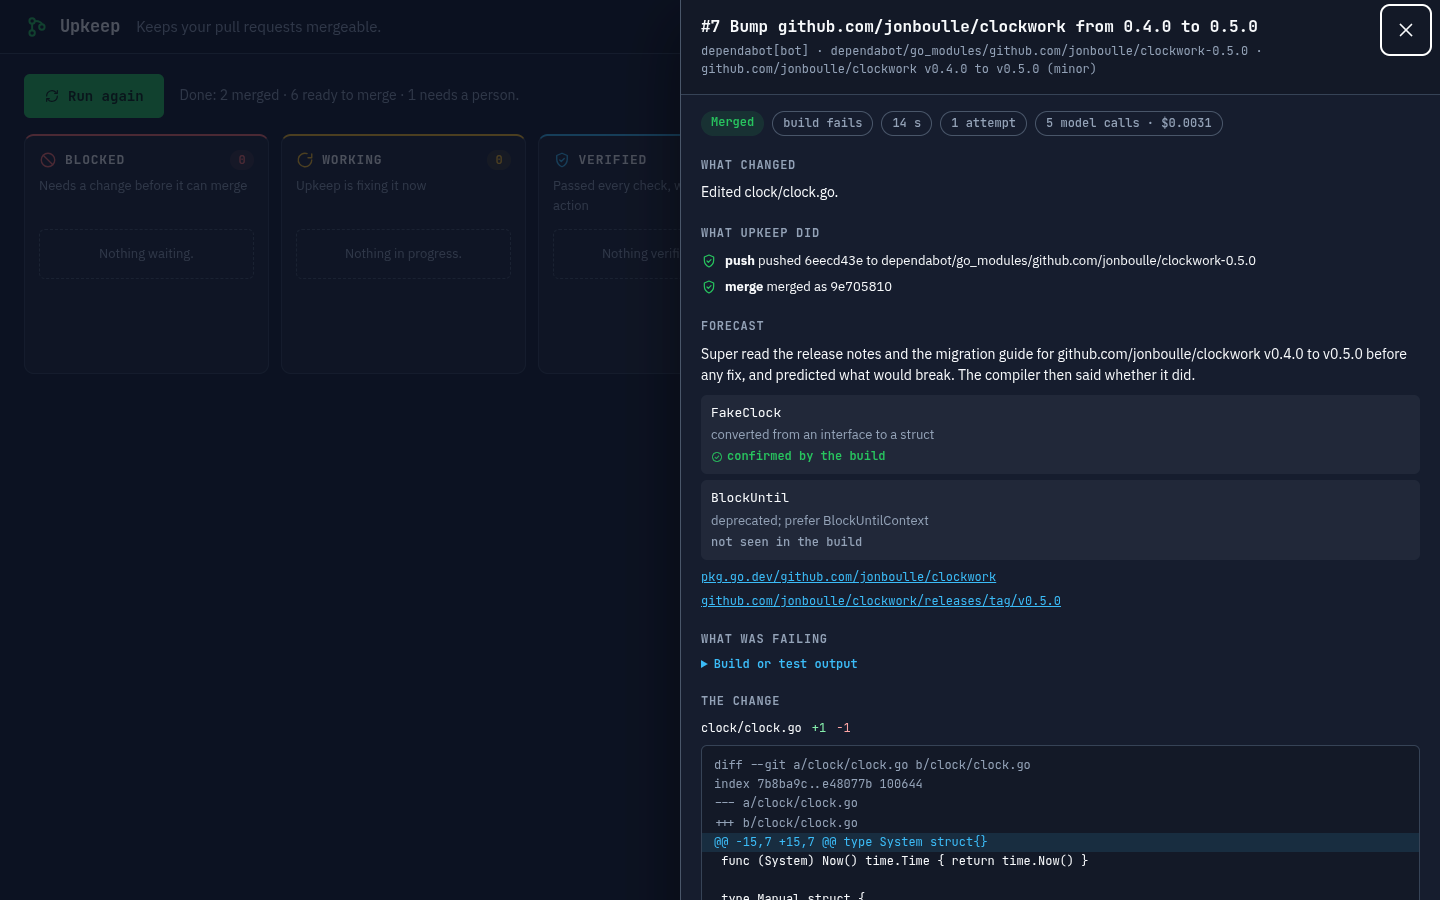
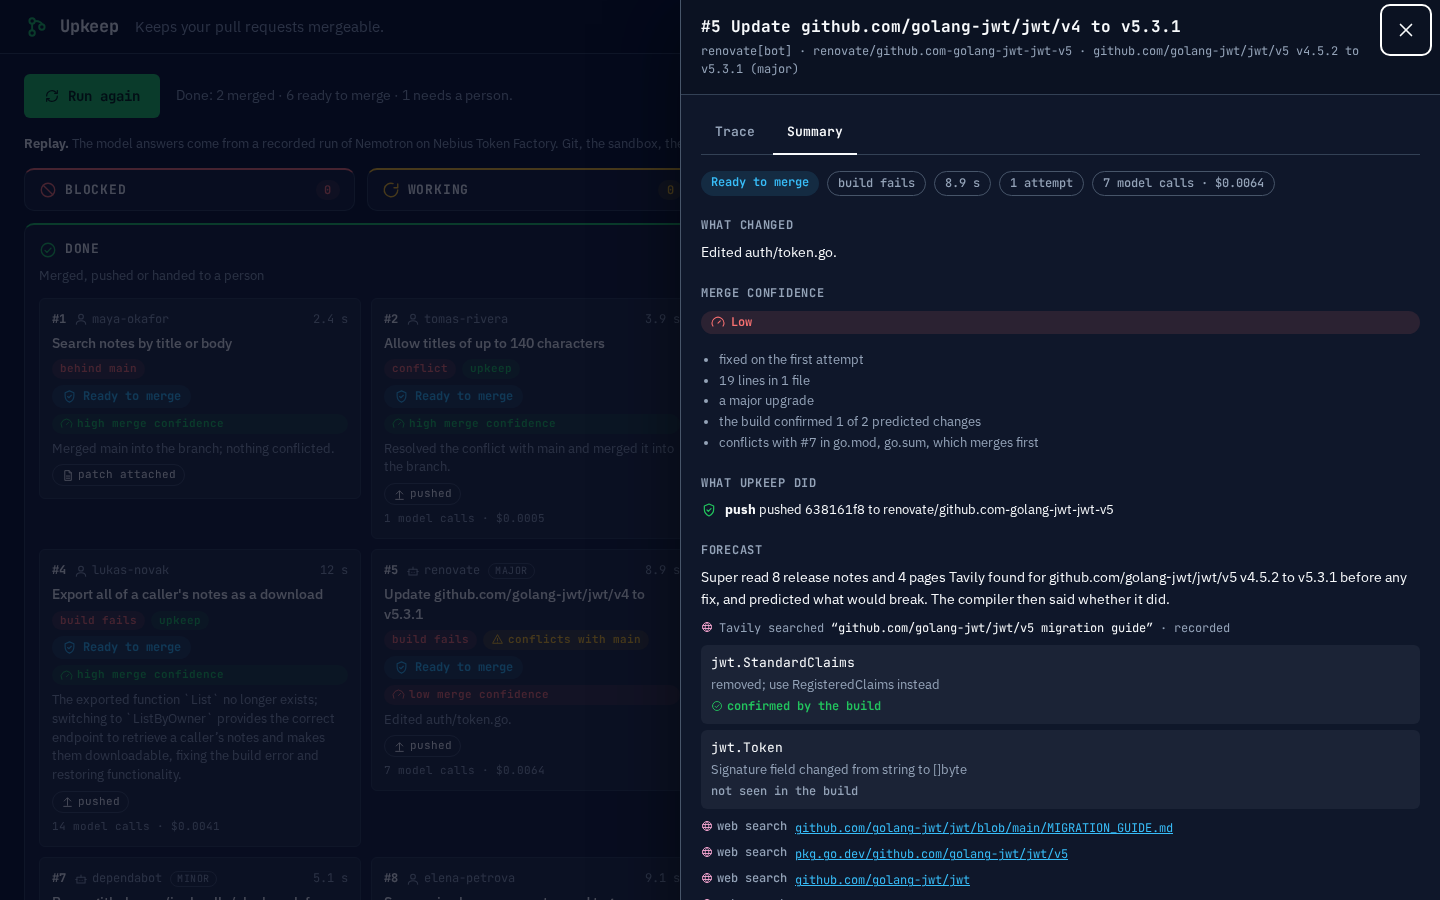
docs: explain the use of Token Factory, Nemotron and Tavily
The README now covers the merge plan, merge confidence and learned fixes, shows the live trace, the summary, the merge plan and a second run with new screenshots, and has sections on how Upkeep uses Nebius Token Factory and NVIDIA Nemotron and where Tavily is called.

diff --git a/README.md b/README.md
@@ -2,24 +2,43 @@
 
 [![ci](https://github.com/aalvaropc/upkeep/actions/workflows/ci.yml/badge.svg)](https://github.com/aalvaropc/upkeep/actions/workflows/ci.yml)
 
-Upkeep keeps GitHub pull requests mergeable. It finds what blocks each open pull request, fixes what a bounded policy allows, proves every fix with the compiler and the tests, and hands the rest back with a diagnosis and a receipt that says what each model did and cost.
+Upkeep keeps GitHub pull requests mergeable. It looks at the whole queue of open pull requests, plans the order they can merge in, fixes what a bounded policy allows, proves every fix with the compiler and the tests, remembers the fixes that passed, and hands the rest back with a diagnosis and a receipt that says what each model did and cost.
 
-It runs on NVIDIA Nemotron models (Ultra, Super and Nano) served by Nebius Token Factory. It is written in Go and ships as one binary with its dashboard built in.
+It runs on NVIDIA Nemotron models (Ultra, Super and Nano) served by Nebius Token Factory, and reads migration guides found with Tavily. It is written in Go and ships as one binary with its dashboard built in.
 
-![The dashboard after a run: nine pull requests, each with its outcome, what Upkeep did and what it cost; the models rail on the right](docs/images/dashboard-done.png)
+![The dashboard after a run: nine pull requests with their outcome, merge confidence and cost; the models and the web search on the right](docs/images/dashboard-done.png)
 
 ## What it does
 
 A repository collects pull requests that need a small change before anyone can merge them: the branch is behind, a conflict touches one line, a rename on `main` broke the build, a Dependabot bump no longer compiles, `gofmt` complains, a flaky test fails. Upkeep works through them:
 
-1. **Detect.** It merges the base branch into a scratch copy and runs the build, vet and tests in a container without network access. The first thing that fails is the blocker: behind, a small or a large conflict, build, test, formatting or a flaky test.
-2. **Forecast** (dependency upgrades only). It reads the release notes and the migration guide, asks Super what will break in the identifiers this project uses, and later marks each prediction confirmed or not seen by the build.
-3. **Fix.** Merges and formatting are mechanical. Small conflicts go to Ultra in one call. Broken builds and tests go to Super, which edits files through four tools (`read_file`, `apply_edit`, `go_doc`, `run_checks`) for up to three attempts, each starting clean.
-4. **Verify.** Outside the model, a checklist decides: build, vet and tests pass; at most 5 files and 80 lines changed; no test touched; Go files only; no comment added; formatted.
-5. **Act.** Push the fix when the pull request has the `upkeep` label or is a bot's, otherwise attach it as a patch; merge a bot's patch or minor bump when everything passes; otherwise post Ultra's diagnosis and leave the pull request to a person.
-6. **Learn.** A fix Super made that passed the verifier is remembered with its failure. When the same failure comes back for the same dependency jump, Upkeep reapplies those edits first, with no model call, and still runs every check and the verifier; if they fail, it repairs from the start. In the dashboard, Run again keeps what the last run learned.
+1. **Plan.** Before touching any code it finds which open pull requests change the same files and which pairs would conflict (`git merge-tree`), and suggests a merge order. After the run it checks the ready ones again and flags any that the run's own merges made stale.
+2. **Detect.** It merges the base branch into a scratch copy and runs the build, vet and tests in a container without network access. The first thing that fails is the blocker: behind, a small or a large conflict, build, test, formatting or a flaky test.
+3. **Forecast** (dependency upgrades). It searches the web with Tavily for the migration guide, reads the release notes, asks Super what will break in the identifiers this project uses, and later marks each prediction confirmed or not seen by the build.
+4. **Fix.** Merges and formatting are mechanical. Small conflicts go to Ultra in one call. Broken builds and tests go to Super, which edits files through four tools (`read_file`, `apply_edit`, `go_doc`, `run_checks`) for up to three attempts, each starting clean.
+5. **Verify.** Outside the model, a checklist decides: build, vet and tests pass; at most 5 files and 80 lines changed; no test touched; Go files only; no comment added; formatted.
+6. **Act.** Push the fix when the pull request has the `upkeep` label or is a bot's, otherwise attach it as a patch; merge a bot's patch or minor bump when everything passes; otherwise post Ultra's diagnosis and leave the pull request to a person. Every ready pull request gets a merge confidence (high, medium or low) with the facts behind it.
+7. **Learn.** A fix Super made that passed the verifier is remembered with its failure. When the same failure comes back for the same dependency jump, Upkeep reapplies those edits first, with no model call, and still runs every check and the verifier; if they fail, it repairs from the start.
 
 Upkeep never force-pushes, never merges a pull request opened by a person, and never lets a fix edit, delete or skip tests. Those are rules in code, not in a prompt.
+
+## See the agent work
+
+Open a pull request while it runs and the Trace tab shows the plan, the Tavily search, every Super turn with the tool it asked for and the file it edited, each attempt with why it failed, the verifier and the action:
+
+![The trace of the jwt major upgrade: the plan, the forecast with the Tavily search, and Super's attempt turn by turn with its edits](docs/images/dashboard-trace.png)
+
+The Summary tab keeps what a reviewer needs: what changed, the merge confidence and its reasons, the forecast with each prediction confirmed or not seen by the build and where the sources came from, the diff, the verifier and the receipt.
+
+![The summary of the jwt upgrade: low merge confidence with its reasons, and the forecast built from release notes and pages Tavily found](docs/images/dashboard-detail.png)
+
+The merge plan sits next to the board. In the scenario the jwt and clockwork bumps both edit `go.mod`; Upkeep merges clockwork first and, after the run, says the jwt upgrade now needs its branch updated:
+
+![The merge plan: the suggested order with each outcome, the files pull requests share, and the warning that #5 went stale after #7 merged](docs/images/dashboard-plan.png)
+
+Press **Run again** and the next run keeps what this one learned: the three fixes Super made are reapplied with zero model calls and still go through every check, and the run costs $0.0055 instead of $0.0191.
+
+![The second run: #4, #5 and #7 carry a learned fix chip and the run cost drops](docs/images/dashboard-learned.png)
 
 ## The demo scenario
 
@@ -31,19 +50,15 @@ Upkeep never force-pushes, never merges a pull request opened by a person, and n
 | 2 | Longer titles (`upkeep` label) | one-line conflict | resolved by Ultra, pushed |
 | 3 | Tag counts | conflicting imports | resolved by Ultra, patch attached |
 | 4 | Notes export (`upkeep` label) | `main` renamed a method it calls | fixed by Super, pushed |
-| 5 | jwt v4 to v5 (bot, major) | build fails | fixed by Super, pushed, left for a person to merge |
+| 5 | jwt v4 to v5 (bot, major) | build fails | fixed by Super, pushed, left for a person; low merge confidence and flagged stale after #7 merged |
 | 6 | cors patch bump (bot) | none | merged, no model call |
-| 7 | clockwork minor bump (bot) | build fails | fixed by Super, pushed, merged |
+| 7 | clockwork minor bump (bot) | build fails | fixed by Super, pushed, merged first by the plan |
 | 8 | Note summary | formatting, and a test that depends on order | formatted, patch attached, the flaky test reported and left alone |
 | 9 | Auth rewrite | four overlapping conflict hunks | handed back with Ultra's diagnosis |
 
 The whole run costs about two cents: $0.0191 against $0.0502 for the same tokens at the largest model's price. That is a price comparison, not a claim that the largest model would have fixed them. CI replays the recording and fails if any pull request ends differently.
 
 The recording is one run, so it was also measured live: five runs against the real models (nothing replayed) ended with all 45 pull requests as the scenario expects, at $0.020 to $0.037 a run ([`docs/evals/live.md`](docs/evals/live.md)).
-
-Press a card and the side sheet shows what happened to that pull request. This one is the clockwork bump: the release note said `FakeClock` became a struct, Super predicted it before touching anything, the compiler confirmed it, and the fix was one line.
-
-![The detail of a dependency bump: the forecast with each prediction marked confirmed or not seen by the build, the change, the verifier and the receipt](docs/images/dashboard-detail.png)
 
 ## Run it
 
@@ -82,15 +97,26 @@ The same run works from GitHub Actions: `uses: aalvaropc/upkeep@v0.1.0` on a dai
 | `upkeep scenario build -out DIR` | builds the scenario's repository from its recipes |
 | `upkeep serve` | the bare dashboard and event stream |
 
-## Which model does what
+## Nebius Token Factory and NVIDIA Nemotron
+
+Every model call goes to Nebius Token Factory through its OpenAI-compatible API, and each step goes to the Nemotron model that measured best for it:
 
 | Model | Used for | Why |
 |---|---|---|
 | Nemotron Ultra (550B) | resolves small conflicts in one call; writes the diagnosis when a person is needed | one-shot reasoning over a short file; inside a tool loop it explored and rewrote too much (0 of 21 fixes) |
-| Nemotron Super (120B) | fixes builds and tests with tools; reads release notes for the forecast | gave the same forecast three times in a row and fixed the jwt major on the first attempt |
+| Nemotron Super (120B) | fixes builds and tests with tools; reads release notes and search results for the forecast | gave the same forecast three times in a row and fixed the jwt major on the first attempt |
 | Nemotron Nano (30B) | writes the one-sentence note for the reviewer | cheap and fast; its note is checked against the diff and dropped if it names anything that is not in the change |
 
-These are measurements, not assumptions: [`docs/models.md`](docs/models.md) has the details, including what did not work.
+Where Token Factory made the work faster:
+
+- **Routing by measurement.** Three model sizes behind one key and one API let us run 73 experiments (3.06 million tokens, about two dollars) in a day and route each step on evidence instead of guesses. [`docs/models.md`](docs/models.md) has the numbers, including what did not work.
+- **Live prices.** `GET /v1/models?verbose=true` returns each model's price, so every receipt is priced from the catalog, and the comparison with the largest model is computed, not assumed.
+- **No infrastructure to run.** Inference needs only a key: the demo machine runs the Go binary and the build sandbox, and four pull requests in parallel never came near the rate limits.
+- **Reasoning switch.** `chat_template_kwargs: {"enable_thinking": false}` turns reasoning off for the tool loop, where it measured slower and less accurate.
+
+## Tavily
+
+The forecast for a dependency upgrade calls Tavily at runtime to find the migration guide and release notes of the module's own project (other projects' pages are filtered out). In live mode every run searches again; the forecast is rewritten only when Tavily finds a page it has not read, so the fixer's input stays stable. The dashboard shows each search (query, pages kept, latency) in the models rail and in the trace, the receipt counts it, and `UPKEEP_SEARCH_DAILY_LIMIT` caps the searches per day. A failed search never fails a pull request: the last forecast is used and the error is shown.
 
 ## Documentation
 
